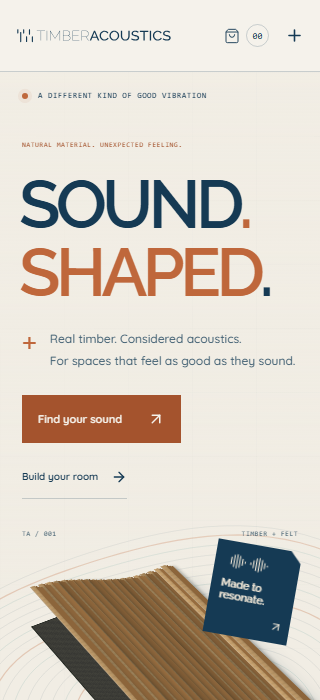
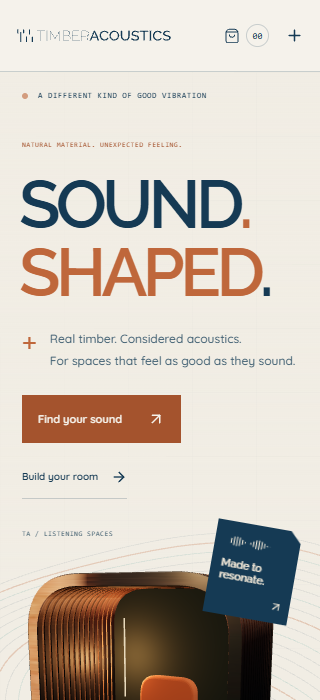
docs: capture listening alcove review and validation

diff --git a/docs/design-review/README.md b/docs/design-review/README.md
@@ -10,25 +10,27 @@ The brand book and client brief in `public/images/` governed this pass. `DESIGN_
 - [Mobile - 390 x 844](mobile.png)
 - [Small mobile - 320 x 700](small-mobile.png)
 - [Live hero motion preview](hero-motion.gif)
+- [Inside the build](inside-build.png)
+- [No-WebGL architectural fallback](fallback.png)
 - [Scroll-led acoustic study](acoustic-study.png)
 
 ## What changed
 
 - Original sound-wave wordmark from the brand book, warm off-white/beige surfaces, navy type and burnt-orange accents. Small text and active controls use a darker orange tint for contrast.
 - Bold, oversized Raleway in the revised hero, with lighter headings on interior pages. Local Quicksand body fonts follow the brand book's fallback guidance; Gotham font files were not supplied.
-- Interactive timber finishes and separated material layers. The acoustic study advances through absorption, diffusion and low-frequency balance on larger screens; it remains a tabbed section on smaller screens and with reduced motion.
+- Interactive timber finishes and an architectural backing reveal in the hero. The acoustic study advances through absorption, diffusion and low-frequency balance on larger screens; it remains a tabbed section on smaller screens and with reduced motion.
 - Product exploration, catalogue filters and room configuration remain. The room atelier adds a finish-study view and supports home theatre, listening room, studio and workplace presets.
 - Shared page introductions, header and footer, responsive controls, and redirects for older collection/configurator URLs.
 
-## Kinetic hero revision
+## Listening alcove revision
 
-The latest feedback asked for more futuristic character and moving background patterns. Commit `b2cf41d` introduces “SOUND. SHAPED.”, travelling timber-slat motion, pointer tilt, a live wood-grain canvas, a studio-photo ticket and a navy finish/layer control band. Supporting SVG patterns also move subtly. No additional animation dependency was needed.
+Commit `492dfe2` replaces the hero slab with a timber-ribbed listening alcove, felt backing, a rust-coloured seat, warm lighting and ground shadows. Cursor movement adjusts the perspective; ambient light travels across the ribs. The headline, live grain field, studio card and badge frame the architecture. Three.js was already installed; no dependency was added. An inline architectural illustration supplies the initial server render and the unavailable-WebGL state.
 
-The revised hero was reviewed at all five widths shown above. Browser checks verified canvas evolution, product tilt, finish selection, actual layer separation, pause/resume, offscreen canvas suspension, reduced motion on first load and live preference changes, both CTA destinations, mobile navigation and Escape. Canvas snapshots remain identical when paused or reduced; CSS animations also pause. No runtime exceptions, broken images or horizontal page overflow were found.
+The revised hero was reviewed at all five widths shown above. Browser checks verified actual rendered timber recolouring and rib separation, keyboard activation, stable scene pixels after pause, WebGL frame-loop suspension/resumption, offscreen suspension, reduced motion on first load and live preference changes, both CTA destinations and scene cleanup, mobile navigation and Escape. WebGL context creation was deliberately disabled to verify the fallback illustration and its finish/build controls. Normal browser operation showed no console errors, hydration errors, runtime exceptions, broken images or horizontal overflow.
 
-Follow-up `76cc28e` adds SSR-consistent motion preferences and a hydration regression test. Clean normal and reduced-motion loads of the homepage, catalogue and room builder were checked for hydration errors, console errors and runtime exceptions; none remained.
+The existing SSR-consistent preference hook and hydration regression test remain in use. Shadows are cached during ambient motion; the scene stops drawing when hidden/offscreen and releases its resources on navigation. Reduced-motion controls update the scene directly without interpolating the geometry.
 
-The images show the current hero. The broader route audit below records the preceding brand redesign; this revision rechecked the homepage and the catalogue/room-builder destinations affected by its links.
+The images show the current alcove hero. The broader route audit below records the preceding brand redesign; this revision rechecked the homepage and its catalogue/room-builder destinations.
 
 ## Browser review
 

diff --git a/DESIGN_DIRECTION.md b/DESIGN_DIRECTION.md
@@ -31,6 +31,6 @@ Create a light material-led homepage with a bold kinetic opening, an acoustic-pr
 
 ## Applied design and review
 
-The shipped pass uses the official brand-book wordmark, local Raleway and Quicksand, the specified navy/orange/beige palette, and a darker orange tint for small text and active states. Product geometry is built in CSS rather than borrowing the reference sites' product artwork. The acoustic sequence uses native sticky layout and Framer Motion with reduced-motion and smaller-screen fallbacks. Review images and the route/interaction audit are recorded in `docs/design-review/README.md`.
+The shipped pass uses the official brand-book wordmark, local Raleway and Quicksand, the specified navy/orange/beige palette, and a darker orange tint for small text and active states. The lower-page material studies use CSS geometry; the hero's architectural scene uses client-rendered Three.js and timber texture sampled from the existing local photograph. The acoustic sequence uses native sticky layout and Framer Motion with reduced-motion and smaller-screen fallbacks. Review images and the route/interaction audit are recorded in `docs/design-review/README.md`.
 
-The hero revision replaces the thin split composition with “SOUND. SHAPED.”, an oversized floating timber study, a navy control band and a tilted studio photograph. A canvas wood-grain field evolves continuously and bends around the pointer. The slats carry a travelling depth wave; the panel also responds to pointer pitch and yaw. Other brand contours breathe through slow SVG transforms. The visitor can pause the hero scene, and reduced-motion preferences produce a static composition, including when the preference changes while the page is open. Canvas drawing pauses offscreen or in a hidden tab, with resolution capped for smaller devices.
+The current hero pairs “SOUND. SHAPED.” with a sculptural listening alcove: timber ribs curve around a felt-lined interior, a rust-coloured seat and warm light. The geometry stays grounded while lighting travels and the camera responds gently to the pointer. Finish swatches change the timber, and “Inside the build” opens the front ribs to expose the backing. The navy control band, studio photograph, badge and pointer-responsive wood-grain field remain. A server-rendered SVG illustration covers loading and unavailable-WebGL states, with working finish and build controls. Pause, live reduced-motion preferences and offscreen/hidden rendering suspension apply to the scene. Static shadow maps are reused during ambient motion; all geometry, materials, textures and observers are disposed on navigation. The alcove is explicitly labelled as an illustrative listening space.

diff --git a/REFERENCE_ANALYSIS.md b/REFERENCE_ANALYSIS.md
@@ -24,6 +24,10 @@ The supplied URL is accessible outside the network sandbox; the browsing service
 
 Desktop, tablet and mobile homepage hero screenshots were compared with the reference. A desktop catalogue comparison identified a display-font conflict and encoding artifacts; both were corrected. The reference fonts and catalogue/project photographs are now served locally. The original catalogue slider uses two independently adjustable handles.
 
-## Current hero direction
+## Kinetic hero direction
 
 The subsequent brand-book redesign and latest user feedback supersede exact replication for the hero. The supplied screenshot shows the preceding thin “Sound, in better shape.” composition; the user requested a bolder futuristic treatment and live patterns. The revision keeps the book's Raleway, navy, burnt orange and wood-grain language while introducing uppercase poster-scale type, animated material geometry and a pointer-responsive contour canvas. It reuses the local studio photograph and existing finish/layer controls. Current screenshots, motion preview and browser findings are in `docs/design-review/README.md`; `DESIGN_DIRECTION.md` records the source hierarchy and decisions.
+
+## Listening alcove - 31 October 2026
+
+The user approved replacing the isolated slab with a sculptural architectural listening alcove while retaining the dynamic details and cursor reactivity. The hero now shows a timber-ribbed, felt-backed space with a rust seat and warm light. Finish selection recolours the timber and “Inside the build” reveals the backing. Existing typography, contour field, badge and studio card remain. The scene uses the existing Three.js dependency, samples the local timber photograph through UV coordinates, and supplies an inline architectural SVG for SSR/loading/no-WebGL states. Browser checks cover five widths, rendered changes, keyboard controls, pause, visibility suspension, reduced motion, navigation cleanup and fallback operation. Updated review artifacts are in `docs/design-review/`.

diff --git a/PROGRESS.md b/PROGRESS.md
@@ -31,3 +31,4 @@
 - Implemented the approved architectural direction: curved timber ribs around a felt-lined listening alcove, a rust-coloured seat, warm lighting, ground shadows and cursor-driven perspective. Reused the existing timber photograph as a UV texture. The headline, live contour field, badge, studio card and navigation remain part of the composition. Finish controls change the timber; “Inside the build” opens the front ribs to expose the backing.
 - Added a server-rendered architectural SVG for loading and unavailable-WebGL states. Three.js loads only in the browser. The scene respects pause and live reduced-motion preferences, stops drawing offscreen/hidden, disposes resources on navigation, and reuses static shadow maps during ambient lighting/camera movement.
 - Browser-reviewed 1440, 1920, 768, 390 and 320 px layouts with no horizontal overflow or broken images. Verified real rendered finish/layer changes, keyboard activation, pause pixel stability, render-loop suspension/resumption, reduced motion on first load and preference changes, both CTA destinations and scene cleanup, forced no-WebGL fallback controls, mobile menu and Escape. Normal browser checks had no console errors, hydration errors or runtime exceptions. Typecheck, targeted ESLint, all four tests and production build passed. Next: save the final viewport/motion captures and update the design review notes.
+- Implementation committed locally as `492dfe2`. Updated the design direction, reference analysis and review README; saved five current viewport screenshots, backing-reveal and fallback captures, and a 30-frame motion preview. Verified image dimensions, distinct motion frames, local review links, documentation formatting and the diff. Removed the owned browser/profile, preview process and temporary review directory. The listening-alcove implementation and review are complete; existing user edits, source documents and `tmp/` content are preserved. No remote push or deployment was performed.
